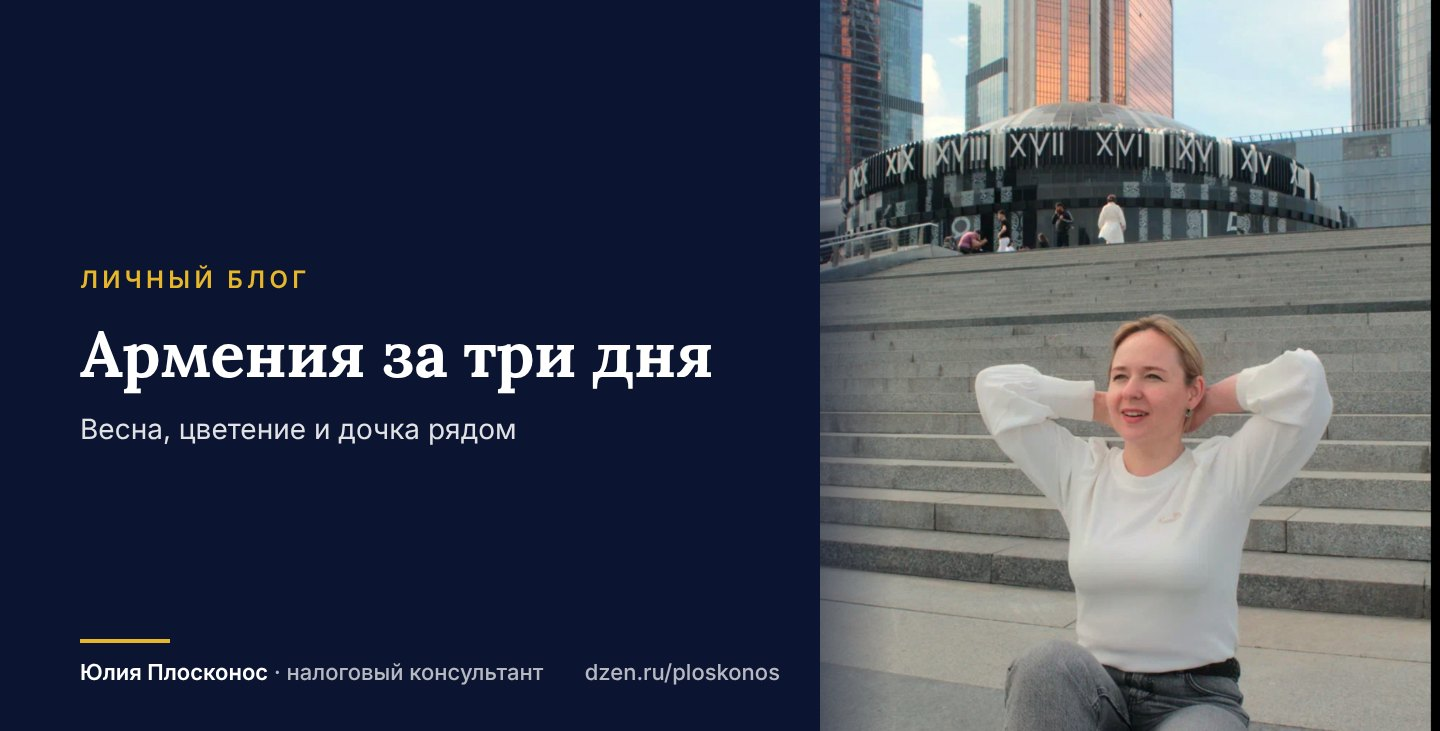
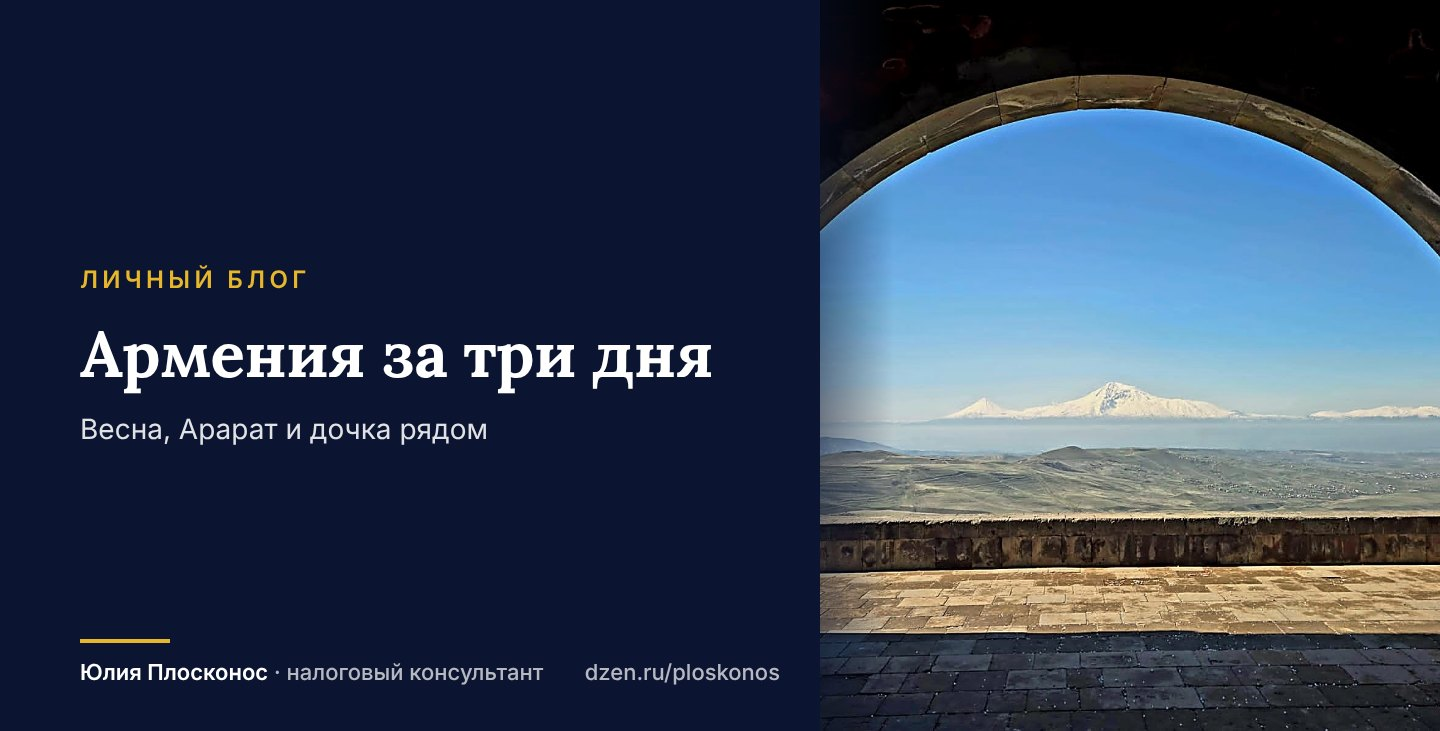
Dzen: фото Армении, обложки p14/p15, Арарат в посте №14
Claude-Session: https://claude.ai/code/session_013Qm2mbBWBWRNQADMDb9gwE

diff --git a/assets/photos/README.md b/assets/photos/README.md
@@ -7,3 +7,5 @@
 Поездка в Петербург осенью 2026: Петергоф (закрытие фонтанов), Александровский дворец (попали вместо Екатерининского — билеты раскупили), опера в Михайловском. Какие park-* фото где сняты — уточнить у Юлии.
 Также: ../dzen/land/*.jpg — готовые обложки личных постов; /home/claude/vpk/out3/assets/founder-hd.jpg (в репозитории сайта не хранится) — портрет в синем пиджаке.
 - Пост №15 (Петербург) — фото dvorec-*.jpg
+- armenia-*.jpg — Армения, апрель 2026 (поездка с дочкой, 3 дня): Ереван (площадь, фонтан, вид с Каскада, парк), Арарат (арка, холмы, закат, поля), монастыри, скалы, пещера, подземелье; armenia-yulia-restoran.jpg — Юлия в ресторане. Названия монастырей (Хор Вирап, Нораванк) определены по виду — подтвердить у Юлии перед упоминанием в тексте.
+- Обложки: land/p14.jpg — арка с Араратом; land/p15.jpg — зал Александровского дворца.

diff --git a/content/dzen/2026-11-lichnoe.md b/content/dzen/2026-11-lichnoe.md
@@ -216,6 +216,8 @@
 
 Весна, всё цветёт. Ты идёшь по улице, а вокруг розовое и белое, тепло, пахнет. После московской зимы и отчётного сезона — как будто кто-то включил цвет.
 
+И Арарат. Он там почти в каждом кадре: из города, с холмов, через старую каменную арку. Снежная вершина над зелёной долиной — смотришь, и голова сама очищается.
+
 Три дня — это мало для страны, но много для головы. Я поняла, что не обязательно уезжать на месяц, чтобы перезагрузиться. Иногда достаточно сменить картинку, выключить рабочий чат и просто побыть с ребёнком. Без «мам, подожди, я отвечу клиенту».
 
 Бухгалтер в отпуске — отдельный жанр. Но я учусь. Медленно.
